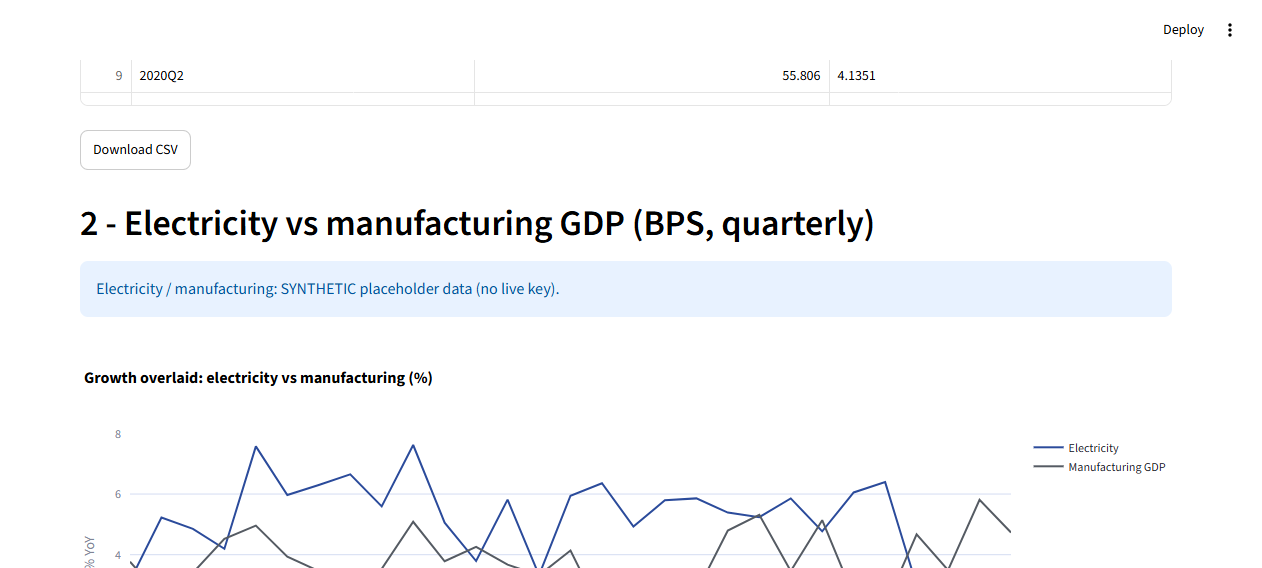
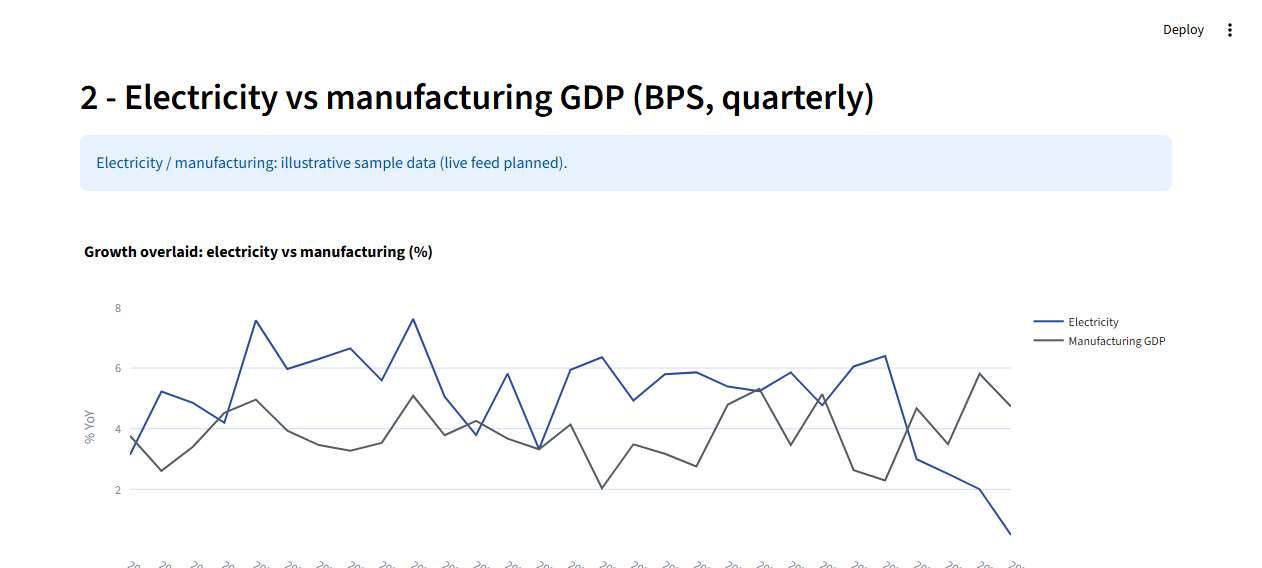
descriptions revision

diff --git a/dashboard/app.py b/dashboard/app.py
@@ -57,7 +57,7 @@ def long_lines(df, x, cols, names):
 
 
 def mock_stamp(name):
-    st.info(f"{name}: illustrative sample data (connect a free API key for the live feed).")
+    st.info(f"{name}: illustrative sample data (live feed planned).")
 
 
 # ---------- 1. Nighttime lights ----------

diff --git a/README.md b/README.md
@@ -13,11 +13,26 @@ annotated on the graphs.
 | Port activity, all 75 ports | IMF PortWatch via HDX | Live, no key needed |
 | Consumption searches | Google Trends | Live, no key needed |
 | Official quarterly GDP, 2016-2026 | BPS releases | Full history in `data/raw/official_gdp_quarterly.csv` |
-| Nighttime lights (VIIRS) | Google Earth Engine | Illustrative sample data until a free GEE key is added |
-| Electricity vs manufacturing | BPS WebAPI | Illustrative sample data until a free BPS key is added |
+| Nighttime lights (VIIRS) | Google Earth Engine | Sample data (live feed planned) |
+| Electricity vs manufacturing | BPS WebAPI | Sample data (live feed planned) |
 
 Charts built on sample data are labeled in the app, so live and sample
 series are never mixed up.
+
+## Data analysis
+
+This is a **data analysis project** first, a dashboard second. The workflow
+is: acquire (free APIs + official releases) -> clean and aggregate (monthly
+port activity across 75 ports, weekly search indices, quarterly GDP with
+per-row sources) -> exploratory analysis (`eda/` scripts producing 15
+figures, 12 tables and the numbered findings in `reports/FINDINGS.md`, where
+every number traces back to a table) -> present (annotated charts, no
+black-box scores). Correlation panels report observed co-movement with n
+stated, never causality, never verdicts.
+
+Tools: **Python 3.12**, **pandas**, **Plotly**, **Streamlit**, **pytest**
+(unit + dashboard smoke tests, both in CI), **GitHub Actions**, HDX
+(PortWatch), Google Trends, BPS statistical releases.
 
 ## Quickstart
 
